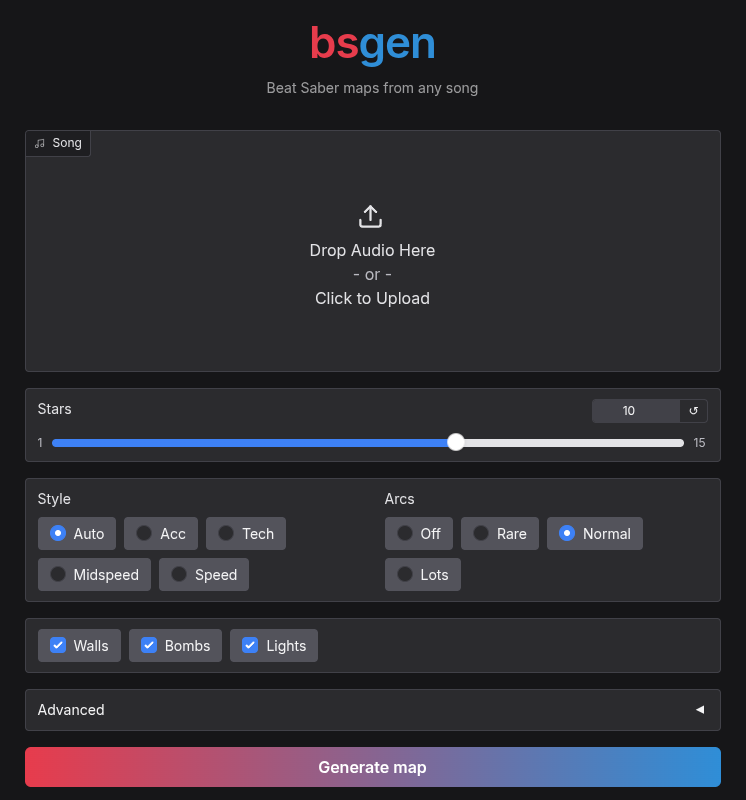
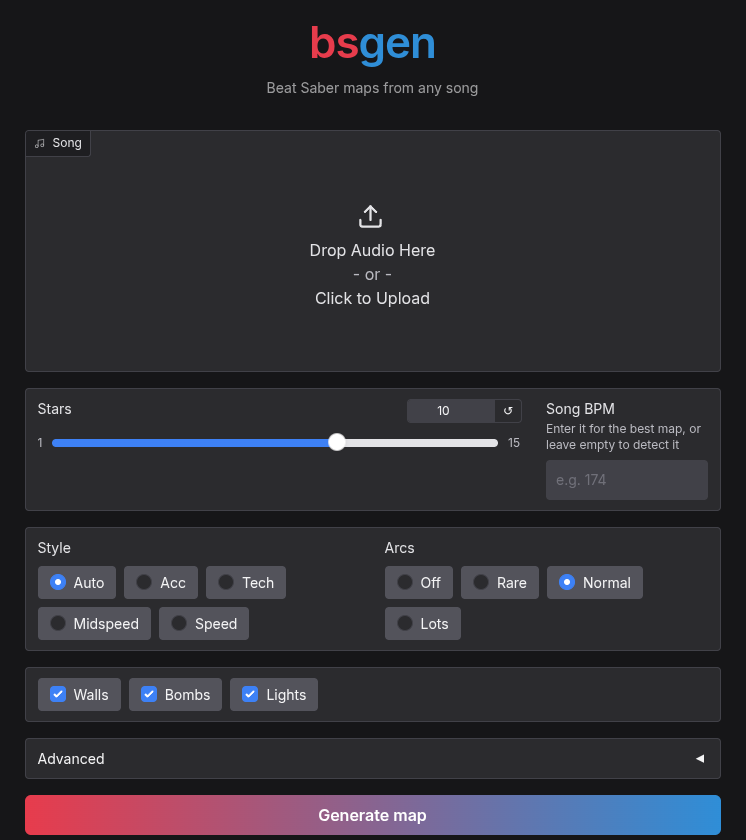
web page: BPM box up front
A BPM typed without a first beat now gets the first beat found in the song.

diff --git a/scripts/webui.py b/scripts/webui.py
@@ -42,6 +42,16 @@ state = {"model": None}
 lock = threading.Lock()
 
 
+def number(text, name):
+    text = (text or "").strip()
+    if not text:
+        return None
+    try:
+        return float(text)
+    except ValueError:
+        raise gr.Error(f"{name} should be a number, like 174.")
+
+
 def build(ckpt, device):
     def make(song, stars, style, arcs, extras, variety, temp, cfg, njs, bpm, first_ms, seed, mapper, fmt):
         if not song:
@@ -60,8 +70,11 @@ def build(ckpt, device):
                 argv.append(f"--no-{part.lower()}")
         dry, xtc = VARIETY[variety]
         argv += ["--dry", f"{dry:g}", "--xtc", f"{xtc:g}"]
+        bpm, first_ms = number(bpm, "Song BPM"), number(first_ms, "First beat")
         if bpm:
-            argv += ["--bpm", f"{bpm:g}", "--offset-ms", f"{first_ms or 0:g}"]
+            argv += ["--bpm", f"{bpm:g}"]
+            if first_ms is not None:
+                argv += ["--offset-ms", f"{first_ms:g}"]
         if mapper and mapper != "Any":
             argv += ["--mapper", mapper]
         args = generate.parser().parse_args(argv)
@@ -100,7 +113,10 @@ def build(ckpt, device):
         gr.HTML('<div id="title"><h1><span class="r">bs</span><span class="b">gen</span></h1>'
                 "<p>Beat Saber maps from any song</p></div>")
         song = gr.Audio(label="Song", type="filepath", sources=["upload"])
-        stars = gr.Slider(1, 15, value=10, step=0.5, label="Stars")
+        with gr.Row():
+            stars = gr.Slider(1, 15, value=10, step=0.5, label="Stars", scale=3)
+            bpm = gr.Textbox(label="Song BPM", placeholder="e.g. 174", scale=1,
+                             info="Enter it for the best map, or leave empty to detect it")
         with gr.Row():
             style = gr.Radio(list(STYLES), value="Auto", label="Style")
             arcs = gr.Radio(list(ARCS), value="Normal", label="Arcs")
@@ -116,9 +132,8 @@ def build(ckpt, device):
             with gr.Row():
                 njs = gr.Slider(10, 24, value=18, step=1, label="Note speed (NJS)")
                 seed = gr.Number(0, label="Seed", precision=0)
-            with gr.Row():
-                bpm = gr.Number(None, label="BPM", info="empty: detected from the song")
-                first_ms = gr.Number(None, label="First beat (ms)", info="with BPM")
+            first_ms = gr.Textbox(label="First beat (ms)", placeholder="found automatically",
+                                  info="Song time of the first beat, with a BPM")
             mapper = gr.Dropdown(mappers, value="Any", label="Map like")
         go = gr.Button("Generate map", elem_id="go", size="lg")
         out = gr.File(label="Map (.zip)", height=90)

diff --git a/bsgen/timing.py b/bsgen/timing.py
@@ -166,14 +166,57 @@ def octave_class(trees, x):
     return int(trees["classes"][np.argmax(raw)])
 
 
-def detect(logmel, fps, root, dev="cuda"):
+def _shift(act, period, phase, lo, hi):
+    k = np.arange(np.ceil((lo - phase) / period), np.floor((hi - 1 - phase) / period) + 1)
+    r = max(1, int(period / 4))
+    offs, wts = [], []
+    for c in phase + k * period:
+        a, b = max(int(c) - r, 0), min(int(c) + r + 1, len(act))
+        seg = act[a:b]
+        if len(seg) < 3:
+            continue
+        j = int(np.argmax(seg))
+        offs.append(a + j - c), wts.append(float(seg[j]) ** 2)
+    return phase + float(np.average(offs, weights=wts)) if sum(wts) > 0 else phase
+
+
+def first_beat(act, fps, bpm, seg_sec=40.0):
+    lo, hi = 0, len(act)
+    period = 60 * fps / bpm
+    seg, mid = int(seg_sec * fps), hi // 2
+    a, b = max(lo, mid - seg // 2), min(hi, mid + seg // 2)
+    fit_bpm, fit_first, _ = fit_grid(act, fps)
+    fp = 60 * fps / fit_bpm
+    cands = [(fit_first * fps + m * fp) % period for m in range(int(np.ceil(period / fp)) + 1)]
+    phase = max(cands, key=lambda ph: _marks(act, period, ph, a, b)[0])
+    while True:
+        phase = _shift(act, period, phase, a, b)
+        if a <= lo and b >= hi:
+            break
+        w = b - a
+        a, b = max(lo, a - w // 2), min(hi, b + w // 2)
+    phase %= period
+    if _marks(act, period, 0.0, lo, hi)[0] >= ZERO_KEEP * _marks(act, period, phase, lo, hi)[0]:
+        return 0.0
+    return phase / fps
+
+
+ZERO_KEEP = 0.6
+
+
+def _activation(logmel, root, dev):
     from safetensors.torch import load_file
-    root = Path(root)
     model = BeatNet().to(dev)
-    model.load_state_dict(load_file(root / "timing.safetensors", device=str(dev)))
+    model.load_state_dict(load_file(Path(root) / "timing.safetensors", device=str(dev)))
     model.eval()
-    act = activation(model, logmel, dev)
+    return activation(model, logmel, dev)
+
+
+def detect(logmel, fps, root, dev="cuda", bpm=None):
+    act = _activation(logmel, root, dev)
+    if bpm:
+        return float(bpm), first_beat(act, fps, bpm)
     bpm, first, _ = fit_grid(act, fps)
     feats, cands = octave_features(act, fps, bpm, first)
-    bpm, first = cands[octave_class(dict(np.load(root / "octave.npz")), feats)]
+    bpm, first = cands[octave_class(dict(np.load(Path(root) / "octave.npz")), feats)]
     return float(bpm), float(first)

diff --git a/scripts/generate.py b/scripts/generate.py
@@ -29,7 +29,7 @@ def parser():
     ap.add_argument("--diff", default="ExpertPlus")
     ap.add_argument("--audio")
     ap.add_argument("--bpm", type=float, help="default: detected from the audio")
-    ap.add_argument("--offset-ms", type=float, default=0.0, help="song time of the first beat (with --bpm)")
+    ap.add_argument("--offset-ms", type=float, help="song time of the first beat (with --bpm; default: found in the audio)")
     ap.add_argument("--stars", type=float, required=True)
     ap.add_argument("--cfg", type=float, default=1.5)
     ap.add_argument("--temp", type=float, default=0.9)
@@ -82,13 +82,13 @@ def run(args, model=None, log=print):
         audio_bytes = ogg_vorbis(args.audio)
         y, sr = librosa.load(io.BytesIO(audio_bytes), sr=None, mono=True)
         title = Path(args.audio).stem
-        bpm, first = args.bpm, args.offset_ms / 1000
-        if not bpm:
+        bpm, first = args.bpm, (args.offset_ms or 0) / 1000
+        if not bpm or args.offset_ms is None:
             logmel, fps = sample.song_mel(y, sr)
             local = ROOT / "runs" / "timing"
             root = local if (local / "timing.safetensors").exists() else hub.timing_model()
-            bpm, first = timing.detect(logmel, fps, root, args.device)
-            log(f"timing: {bpm:.3f} BPM, first beat at {first * 1000:.0f} ms")
+            bpm, first = timing.detect(logmel, fps, root, args.device, bpm=bpm)
+            log(f"timing: {bpm:.3f} BPM{' (given)' if args.bpm else ''}, first beat at {first * 1000:.0f} ms")
         tempo = beatmap.TempoMap(bpm)
         offset = first * bpm / 60
     dur = len(y) / sr
